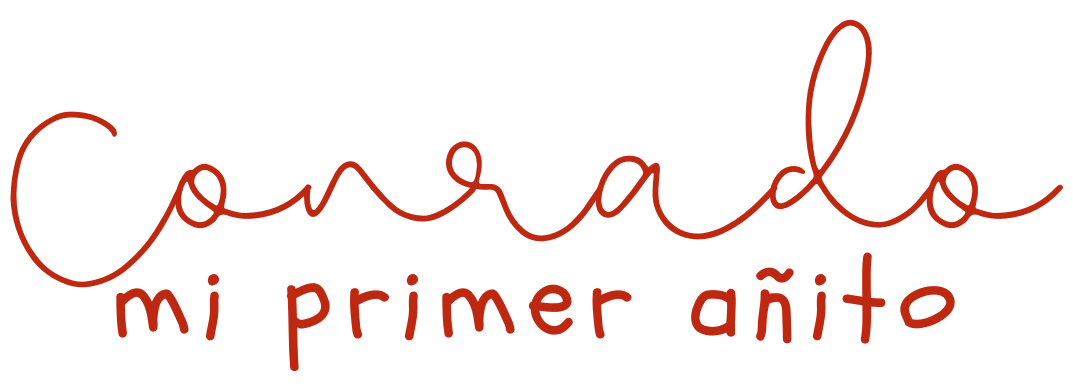
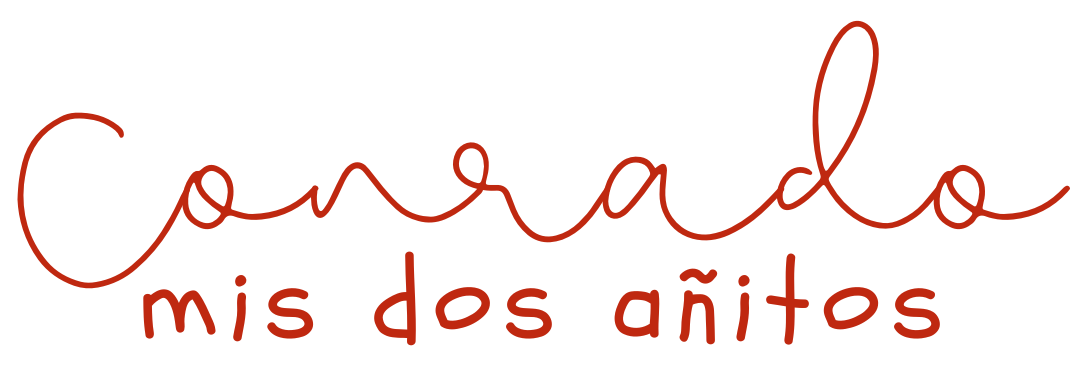
A
AA

diff --git a/index.html b/index.html
@@ -40,7 +40,7 @@
    
     <div class="segundo"> 
     
-      <p data-aos="fade-up">TE ESPERO PARA FESTEJAR <br>  MI PRIMER AÑITO <br><br>
+      <p data-aos="fade-up">TE ESPERO PARA FESTEJAR <br>  MIS DOS AÑITOS <br><br>
         🎉 30 DE NOVIEMBRE <br>⏰ DE 13 A 17 HS <br> 📍 SALÓN BELLA QUINTA 
         <br> <br>  HACE CLICK PARA SABER COMO LLEGAR</p>
       <a  data-aos="fade-up" class="boton2" target="_blank"  href="https://www.google.com.ar/maps/dir//Bella+Quinta,+San+Francisco+del+Monte+6224,+M5523+Guaymall%C3%A9n,+Mendoza/@-32.9325092,-68.7836571,17z/data=!4m17!1m7!3m6!1s0x967e0d911f29c775:0x92586ac0b7d754c!2sBella+Quinta!8m2!3d-32.9325092!4d-68.7810822!16s%2Fg%2F11qy75n6pp!4m8!1m0!1m5!1m1!1s0x967e0d911f29c775:0x92586ac0b7d754c!2m2!1d-68.7810822!2d-32.9325092!3e0?hl=es&entry=ttu&g_ep=EgoyMDI1MTAyOS4yIKXMDSoASAFQAw%3D%3D">CÓMO LLEGAR</a>    
